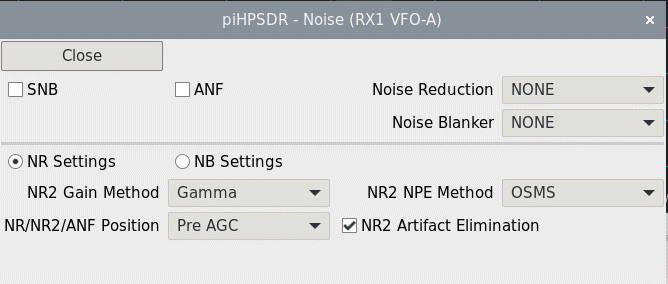
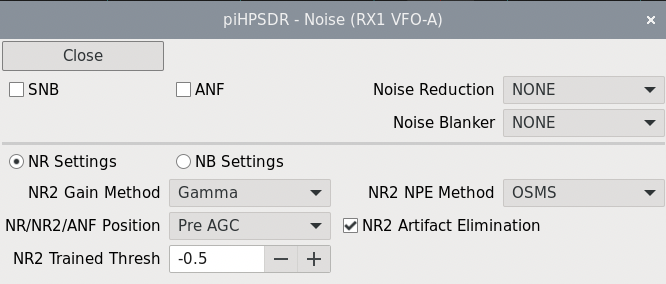
Manual: updated noise reduction chapter

diff --git a/release/LatexManual/piHPSDR-Manual.tex b/release/LatexManual/piHPSDR-Manual.tex
@@ -1974,39 +1974,52 @@ menu always looks the same, the lower part lets you fine-tune noise reduction
 or noise blanker parameters. For an in-depth explanation of the noise reduction
 and noise blanker capabilities, the reader is referred to the WDSP manual.
 
-\rett{SNB} This check box lets you enable/disable the spectral noise blanker.
+\rett{SNB}. This check box lets you enable/disable the spectral noise blanker.
 
-\rett{ANF} This check box enables/disables the automatic notch filter. The ANF is
+\rett{ANF}. This check box enables/disables the automatic notch filter. The ANF is
 very good at eliminating a single-tone QRM carrier in SSB modes. It goes without
 saying that activating the ANF in CW is detrimental rather than beneficial, because
 here the signal is of the type the ANF tries to eliminate.
 
-\rett{Noise Reduction} With this pop-down menu, you can choose the type of noise reduction
-(no noise reduction, NR1 or NR2).
+\rett{Noise Reduction}. With this pop-down menu, you can choose the type of noise reduction
+namely no noise reduction, LMS noise reduction (NR1) or spectral noise reduction (NR2).
 
-\rett{Noise Blanker} With this pop-down menu, you can choose the type of noise blanker
+\rett{Noise Blanker}. With this pop-down menu, you can choose the type of noise blanker
 (no noise blanker, the preemptive wide band blanker NB or the interpolating wide band
 blanker NB2 ).
 
-\rett{NR Settings/NB Settings} Choosing one of the two buttons determines whether the
+\rett{NR Settings/NB Settings}. Choosing one of the two buttons determines whether the
 lower part of the menu offers fine-tuning of the noise reduction or noise blanker settings.
 The set up for changing the noise reduction settings is shown in Fig. \ref{fig:NoiseMenu1},
 below (Fig \ref{fig:NoiseMenu2}) you find the set up for changing the noise blanker settings.
 We discuss the noise reduction settings first, but note again for the details you have
-to study the WDSP manual.
+to study the WDSP manual. It should also be noted that noise reduction in general has two
+goals, namely to reduce fatigue (that is, quieting the background)
+and to increase readability (that is, digging otherwise unreadable signals out of the noise).
+ This implies that which settings
+are judged to be ,,best'' very much depends on the beholder,
+and that you have to play around with the parameters until you find a setting that
+suits your needs.
 
-\rett{NR2 Gain Method} The available choices for the NR2 noise reduction here are Linear, Log, and Gamma, where Gamma is the default.
+\rett{NR2 Gain Method}. The available choices for the NR2 noise reduction here are \rett{Linear},
+ \rett{Log}, \rett{Gamma}, and \rett{Trained} (\rett{Gamma} is the default). The new method
+ \rett{Trained} has recently been introduced (since WDSP, version 1.25).
 
-\rett{NR2 NPE Method} The available choices for the NR2 noise reduction here are OSMS and MMSE,
+\rett{NR2 NPE Method}. The available choices for the NR2 noise reduction here are OSMS and MMSE,
 where OSMS is the default.
 
-\rett{NR...Position} In the RX chain, the noise reduction can be placed before or after
+\rett{NR...Position}. In the RX chain, the noise reduction can be placed before or after
 the automatic gain control (AGC). The choice here refers to \textit{all} noise reduction
 capabilities (SNB, ANF, NR1, NR2).
 
 \rett{NR2 Artefact Elimination} The NR2 noise reduction algorithm is prone to producing
-artefacts, so there is an option to reduce such artefacts which should normally be checked
-(artefact elimination ,,on'').
+artefacts, so there is an option to reduce such artefacts.
+Although piHPSDR allows you to play with it, this option should nearly always be
+checked (artefact elimination ,,enabled'').
+
+\rett{NR2 Trained Thresh} This spin-box sets a threshold (between $-5$ and $5$)
+that is only used in the NR2 \rett{Trained} method. The default value, $-0.5$, should be
+suitable in most cases.
 
 \begin{figure}[ht]
 \center
@@ -2017,21 +2030,35 @@ artefacts, so there is an option to reduce such artefacts which should normally 
 
 Note the noise blanker works very different from the noise reduction, since noise blanking
 is applied to the original RX IQ samples before any frequency shifts etc. take place.
+Noise blanking is targeted at impulse noise, that is, small but strong impulses in the RX
+signal that are almost exclusively man-made noise.
 If you have a single source of noise (e.g. a Plasma TV) that drives you crazy, it is worth
 the effort to play around with the NB2 parameters, especially the timings. Different
-QRM sources will require different parameters! The default parameters have been proven useful
+QRM sources will require different noise blanker parameters! The default parameters have been proven useful
 for many situations, but for you a different setting may produce better results!
 The options to control the noise blanker algorithms are:
 
-\rett{NB2 Mode} The available choices for the interpolating NB2 noise blanker here are Zero,
+\rett{NB2 Mode}. The available choices for the interpolating NB2 noise blanker here are Zero,
 Sample\&Hold, Mean Hold, Hold Sample, and Interpolate.
 
-\rett{NB Slew time/Lag time/Lead time/Threshold} These parameters apply both to NB and NB2.
+\rett{NB Slew time/NB Lag time/NB Lead time/NB Threshold}.\\
+ These parameters apply both to NB and NB2.
 piHPSDR currently does not allow to have a separate set of parameters for NB and NB2.
+The times are in the range $0\ldots0.1$ msec, and 0.01 msec is a good starting point. The Threshold
+can vary from 15 to 500. If normal signals are blanked out (erroneously treated as impulse noise),
+then this threshold should be increased. On the other hand, a too high value will prevent the
+noise blanker from detecting (and blanking) impulse noise.
 
 
 %%%%%%%%%%%%%%%%%%%%%%%%%%%%%%%%%%%%%%%%%%%%%%%%%%%%%%%%%%%%%%%%%%%%%%%%%%%%%%%%%%%%%%%%%%%%%%%%%%%%%%%%%%%%
 \section{The \texttt{AGC} Menu}
+
+\begin{figure}[ht]
+\center
+\includegraphics[width=6cm]{AGCMenu.png}
+\caption{The \bltt{AGC} menu.}
+\label{fig:AGCMenu}
+\end{figure}
 
 Only few parameters can be controlled via the automatic gain control (AGC) menu.
 The first is the AGC time constant, which can be Off (no AGC), Long, Slow, Medium,
@@ -2046,12 +2073,6 @@ since the AGC hang time is turned off for Medium and Fast.
 In this case, the RX spectrum scope not only shows the ,,normal'' AGC line in green,
 but also the hang threshold line in orange.
 
-\begin{figure}[ht]
-\center
-\includegraphics[width=6cm]{AGCMenu.png}
-\caption{The \bltt{AGC} menu.}
-\label{fig:AGCMenu}
-\end{figure}
 
 %%%%%%%%%%%%%%%%%%%%%%%%%%%%%%%%%%%%%%%%%%%%%%%%%%%%%%%%%%%%%%%%%%%%%%%%%%%%%%%%%%%%%%%%%%%%%%%%%%%%%%%%%%%%
 \section{The \texttt{Diversity} Menu}
